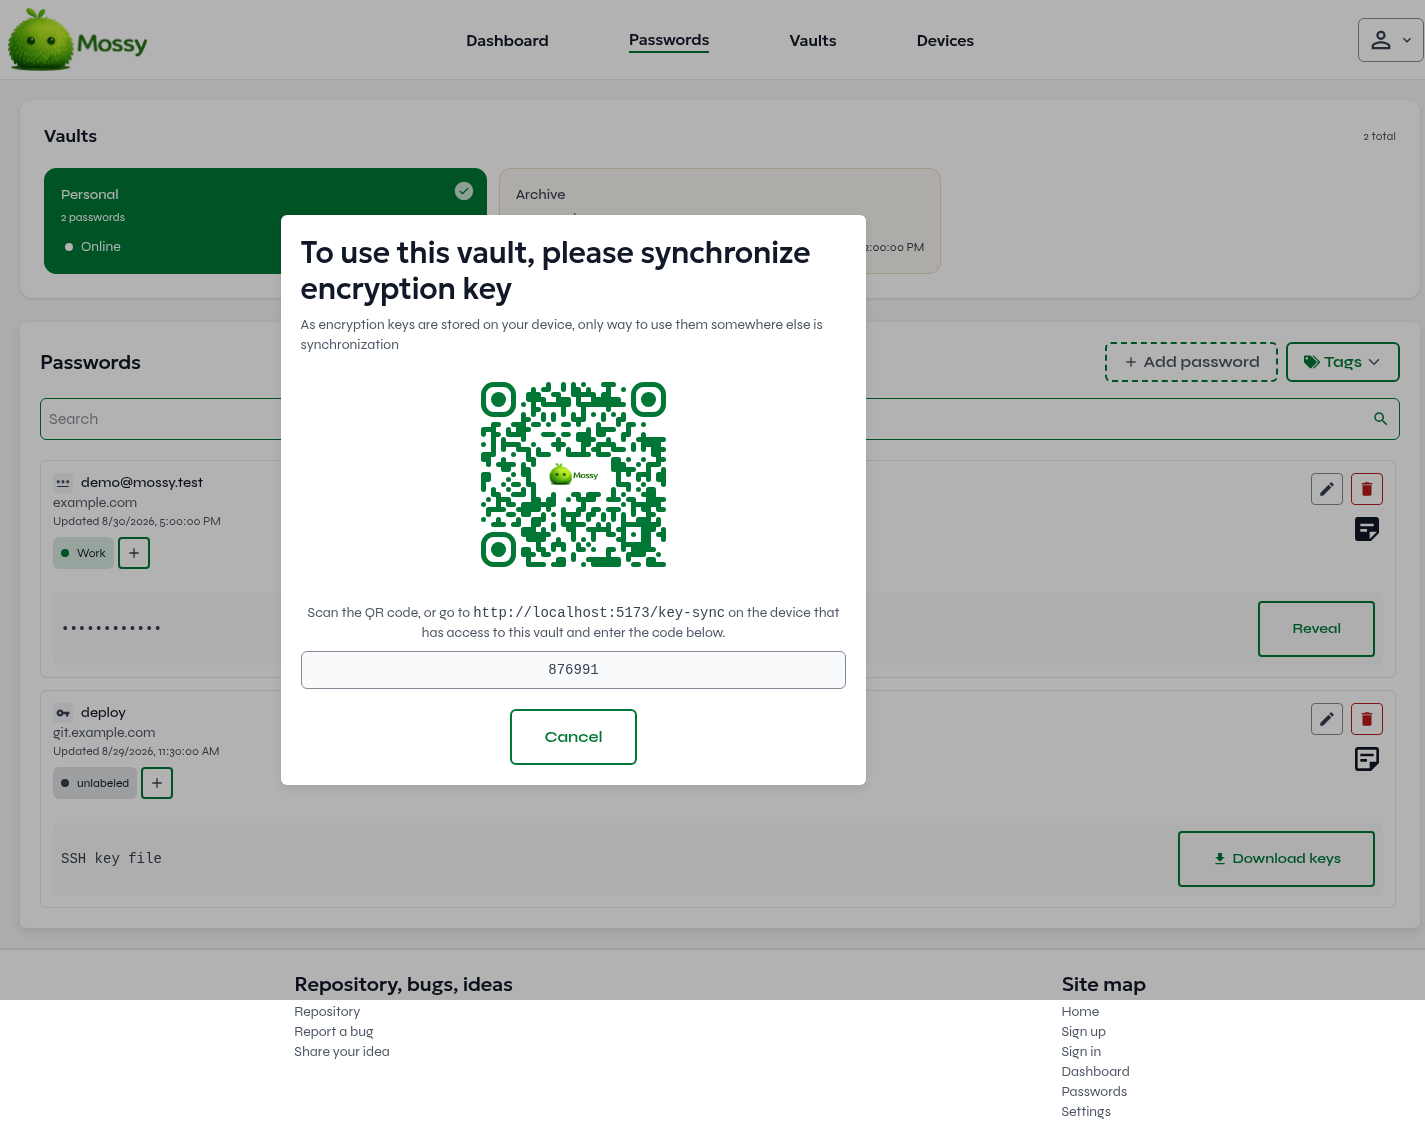
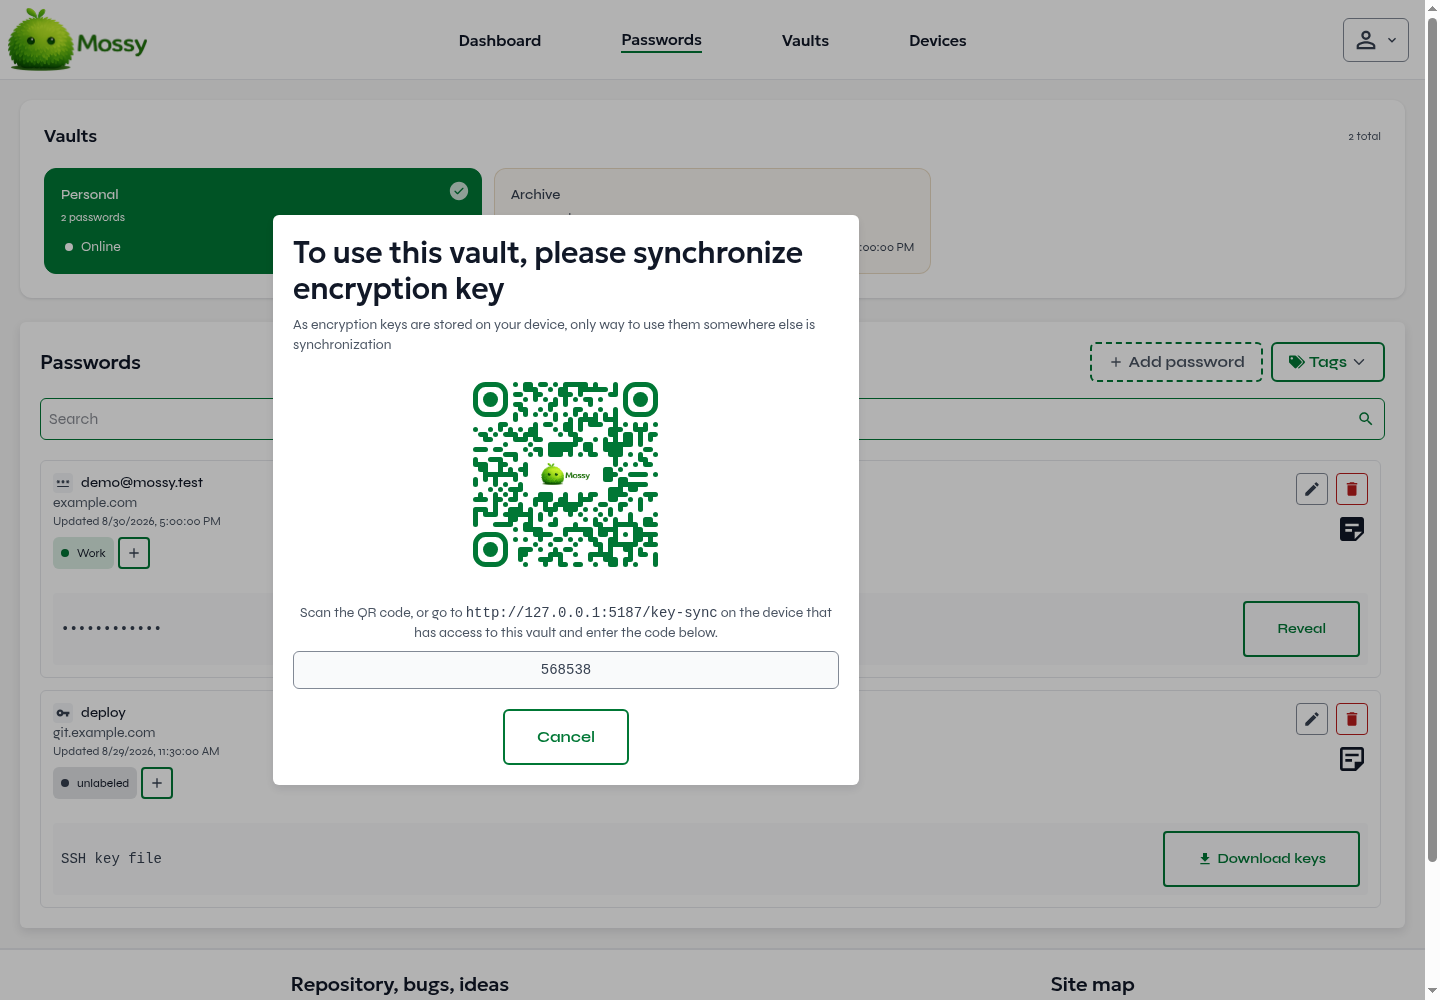
fix(frontend): polish mobile navigation and round QR canvas

diff --git a/mossy-frontend/src/ui/layout/Nav.tsx b/mossy-frontend/src/ui/layout/Nav.tsx
@@ -6,7 +6,15 @@ import { AnimatePresence, motion, type Variants } from 'framer-motion';
 import { useAuth } from '../../hooks/useAuth.ts';
 import AccountMenu from './AccountMenu.tsx';
 import { useDeviceManagementStore } from '../../store/deviceManagementStore.ts';
-import { MdSettings } from 'react-icons/md';
+import {
+    MdDashboard,
+    MdDevices,
+    MdLockOutline,
+    MdLogout,
+    MdPersonOutline,
+    MdSettings,
+    MdStorage,
+} from 'react-icons/md';
 
 const menuVariants: Variants = {
     hidden: { opacity: 0, height: 0 },
@@ -34,10 +42,30 @@ const itemVariants = {
 };
 
 const navItems = [
-    { name: 'Dashboard', url: '/dashboard', requiresAuthentication: true },
-    { name: 'Passwords', url: '/passwords', requiresAuthentication: true },
-    { name: 'Vaults', url: '/vaults', requiresAuthentication: true },
-    { name: 'Devices', url: '/devices', requiresAuthentication: true },
+    {
+        name: 'Dashboard',
+        url: '/dashboard',
+        requiresAuthentication: true,
+        icon: MdDashboard,
+    },
+    {
+        name: 'Passwords',
+        url: '/passwords',
+        requiresAuthentication: true,
+        icon: MdLockOutline,
+    },
+    {
+        name: 'Vaults',
+        url: '/vaults',
+        requiresAuthentication: true,
+        icon: MdStorage,
+    },
+    {
+        name: 'Devices',
+        url: '/devices',
+        requiresAuthentication: true,
+        icon: MdDevices,
+    },
 ];
 
 function Nav() {
@@ -132,7 +160,7 @@ function Nav() {
                 </div>
 
                 <button
-                    className="lg:hidden mr-4 flex flex-col col-start-3 justify-self-end justify-center items-center w-10 h-10 cursor-pointer"
+                    className="lg:hidden mr-4 flex flex-col col-start-3 justify-self-end justify-center items-center w-11 h-11 cursor-pointer rounded-md border border-border-strong hover:bg-surface-subtle"
                     onClick={toggleMenu}
                     type="button"
                     aria-label={isOpen ? 'Close menu' : 'Open menu'}
@@ -176,9 +204,9 @@ function Nav() {
                         initial="hidden"
                         animate="visible"
                         exit="exit"
-                        className="lg:hidden shrink-0 overflow-hidden bg-surface border-b-2 border-border sticky top-20 z-40 w-full"
+                        className="lg:hidden shrink-0 overflow-hidden bg-surface border-b border-border sticky top-20 z-40 w-full"
                     >
-                        <div className="flex flex-col items-start px-6 py-4 gap-4">
+                        <div className="mx-auto flex max-w-7xl flex-col gap-1 px-4 py-4 sm:px-6">
                             {navItems.map((item) => (
                                 <motion.div
                                     key={item.url}
@@ -186,6 +214,13 @@ function Nav() {
                                     className="w-full"
                                 >
                                     <NavTab
+                                        mobile
+                                        icon={
+                                            <item.icon
+                                                className="h-5 w-5 shrink-0"
+                                                aria-hidden="true"
+                                            />
+                                        }
                                         name={item.name}
                                         url={item.url}
                                         requiresAuthentication={
@@ -205,6 +240,13 @@ function Nav() {
                                 className="w-full"
                             >
                                 <NavTab
+                                    mobile
+                                    icon={
+                                        <MdSettings
+                                            className="h-5 w-5 shrink-0"
+                                            aria-hidden="true"
+                                        />
+                                    }
                                     name="Settings"
                                     url="/settings"
                                     requiresAuthentication={false}
@@ -214,11 +256,17 @@ function Nav() {
                             {isAuthenticated && (
                                 <motion.div
                                     variants={itemVariants}
-                                    className="w-full border-t border-border pt-3"
+                                    className="mt-3 w-full border-t border-border pt-3"
                                 >
                                     {userDetails?.username && (
-                                        <p className="mb-2 px-5 text-sm text-fg-muted">
-                                            {userDetails.username}
+                                        <p className="flex min-h-11 items-center gap-3 px-3 text-sm text-fg-muted">
+                                            <MdPersonOutline
+                                                className="h-5 w-5 shrink-0"
+                                                aria-hidden="true"
+                                            />
+                                            <span className="min-w-0 break-words">
+                                                {userDetails.username}
+                                            </span>
                                         </p>
                                     )}
                                     <button
@@ -226,8 +274,12 @@ function Nav() {
                                         onClick={() => void signOut()}
                                         disabled={signingOut}
                                         aria-busy={signingOut}
-                                        className="min-h-11 w-full cursor-pointer rounded-sm px-5 text-left text-sm font-semibold text-fg-danger hover:bg-danger/5 disabled:cursor-wait"
+                                        className="flex min-h-12 w-full cursor-pointer items-center gap-3 rounded-md px-3 text-left text-sm font-semibold text-fg-danger hover:bg-danger/5 disabled:cursor-wait"
                                     >
+                                        <MdLogout
+                                            className="h-5 w-5 shrink-0"
+                                            aria-hidden="true"
+                                        />
                                         {signingOut
                                             ? 'Signing out…'
                                             : 'Sign out'}

diff --git a/mossy-frontend/src/ui/layout/AccountMenu.test.tsx b/mossy-frontend/src/ui/layout/AccountMenu.test.tsx
@@ -129,9 +129,14 @@ it('makes Settings available to guests in the header, footer, and mobile navigat
     expect(within(mobile).getByRole('link', { name: 'Settings' })).toBeTruthy();
 });
 
-it.each([false, true])(
-    'clears auth and returns home while keeping the theme when logout fails=%s',
-    async (fails) => {
+it.each([
+    { fails: false, mobile: false },
+    { fails: true, mobile: false },
+    { fails: false, mobile: true },
+    { fails: true, mobile: true },
+])(
+    'clears auth and returns home while keeping the theme (fails=$fails, mobile=$mobile)',
+    async ({ fails, mobile }) => {
         if (fails) executeLogoutRequest.mockRejectedValue(new Error('Offline'));
         else executeLogoutRequest.mockResolvedValue(undefined);
         useAuthStore.setState({
@@ -146,8 +151,24 @@ it.each([false, true])(
         tokenStorage.set('test-token');
         useThemeStore.getState().setPreference('dark');
         renderLayout();
-        fireEvent.click(screen.getByRole('button', { name: 'Account menu' }));
-        fireEvent.click(screen.getByRole('menuitem', { name: 'Sign out' }));
+        if (mobile) {
+            fireEvent.click(screen.getByRole('button', { name: 'Open menu' }));
+            const menu = document.getElementById('mobile-navigation')!;
+            expect(within(menu).getByText('Mossy user')).toBeTruthy();
+            expect(
+                within(menu)
+                    .getByRole('link', { name: 'Settings' })
+                    .getAttribute('aria-current')
+            ).toBe('page');
+            fireEvent.click(
+                within(menu).getByRole('button', { name: 'Sign out' })
+            );
+        } else {
+            fireEvent.click(
+                screen.getByRole('button', { name: 'Account menu' })
+            );
+            fireEvent.click(screen.getByRole('menuitem', { name: 'Sign out' }));
+        }
         await screen.findByRole('heading', { name: 'Home fixture' });
         expect(executeLogoutRequest).toHaveBeenCalledTimes(1);
         expect(useAuthStore.getState().isAuthenticated).toBe(false);

diff --git a/mossy-frontend/src/ui/layout/NavTab.tsx b/mossy-frontend/src/ui/layout/NavTab.tsx
@@ -1,6 +1,7 @@
 import { NavLink } from 'react-router-dom';
 import { motion } from 'framer-motion';
 import { useAuth } from '../../hooks/useAuth.ts';
+import type { ReactNode } from 'react';
 
 interface NavTabProps {
     name: string;
@@ -8,6 +9,8 @@ interface NavTabProps {
     requiresAuthentication: boolean;
     onClick?: () => void;
     badgeCount?: number;
+    mobile?: boolean;
+    icon?: ReactNode;
 }
 
 const MotionNavLink = motion.create(NavLink);
@@ -18,8 +21,32 @@ function NavTab({
     requiresAuthentication,
     onClick,
     badgeCount = 0,
+    mobile = false,
+    icon,
 }: NavTabProps) {
     const { isAuthenticated } = useAuth();
+
+    if (isAuthenticated !== true && requiresAuthentication) return null;
+
+    if (mobile) {
+        return (
+            <NavLink
+                to={url}
+                onClick={onClick}
+                className={({ isActive }) =>
+                    `flex min-h-12 w-full items-center gap-3 rounded-md px-3 text-sm font-semibold ${isActive ? 'bg-brand/10 text-fg-brand' : 'text-fg-secondary hover:bg-surface-subtle'}`
+                }
+            >
+                {icon}
+                <span>{name}</span>
+                {badgeCount > 0 && (
+                    <span className="ml-auto text-xs text-fg-warning">
+                        {badgeCount} pending
+                    </span>
+                )}
+            </NavLink>
+        );
+    }
 
     return (
         (isAuthenticated === true || !requiresAuthentication) && (

diff --git a/mossy-frontend/src/ui/passwords/steps/KeySyncStep.tsx b/mossy-frontend/src/ui/passwords/steps/KeySyncStep.tsx
@@ -148,7 +148,7 @@ export default function KeySyncStep({
                         <div className="flex flex-col items-center gap-2">
                             <div
                                 ref={qrCodeRef}
-                                className="w-60 h-60 rounded-md bg-qr-surface flex justify-center items-center subpixel-antialiased"
+                                className="w-60 h-60 overflow-hidden rounded-xl bg-qr-surface flex justify-center items-center subpixel-antialiased"
                                 style={{
                                     transform: 'translateZ(0)',
                                     backfaceVisibility: 'hidden',

diff --git a/docs/screenshots/dark-theme/README.md b/docs/screenshots/dark-theme/README.md
@@ -22,7 +22,7 @@ Additional states:
 
 - [Account menu with keyboard focus](account-menu-dark.png)
 - [Mobile Settings](settings-mobile-dark.png)
-- [Mobile navigation](mobile-menu-dark.png)
+- [Signed-in mobile navigation](mobile-menu-dark.png)
 - [Password entry](password-entry-dark.png)
 - [PIN modal](pin-modal-dark.png)
 - [QR modal, Dark](qr-modal-dark.png) and [Light](qr-modal-light.png)
